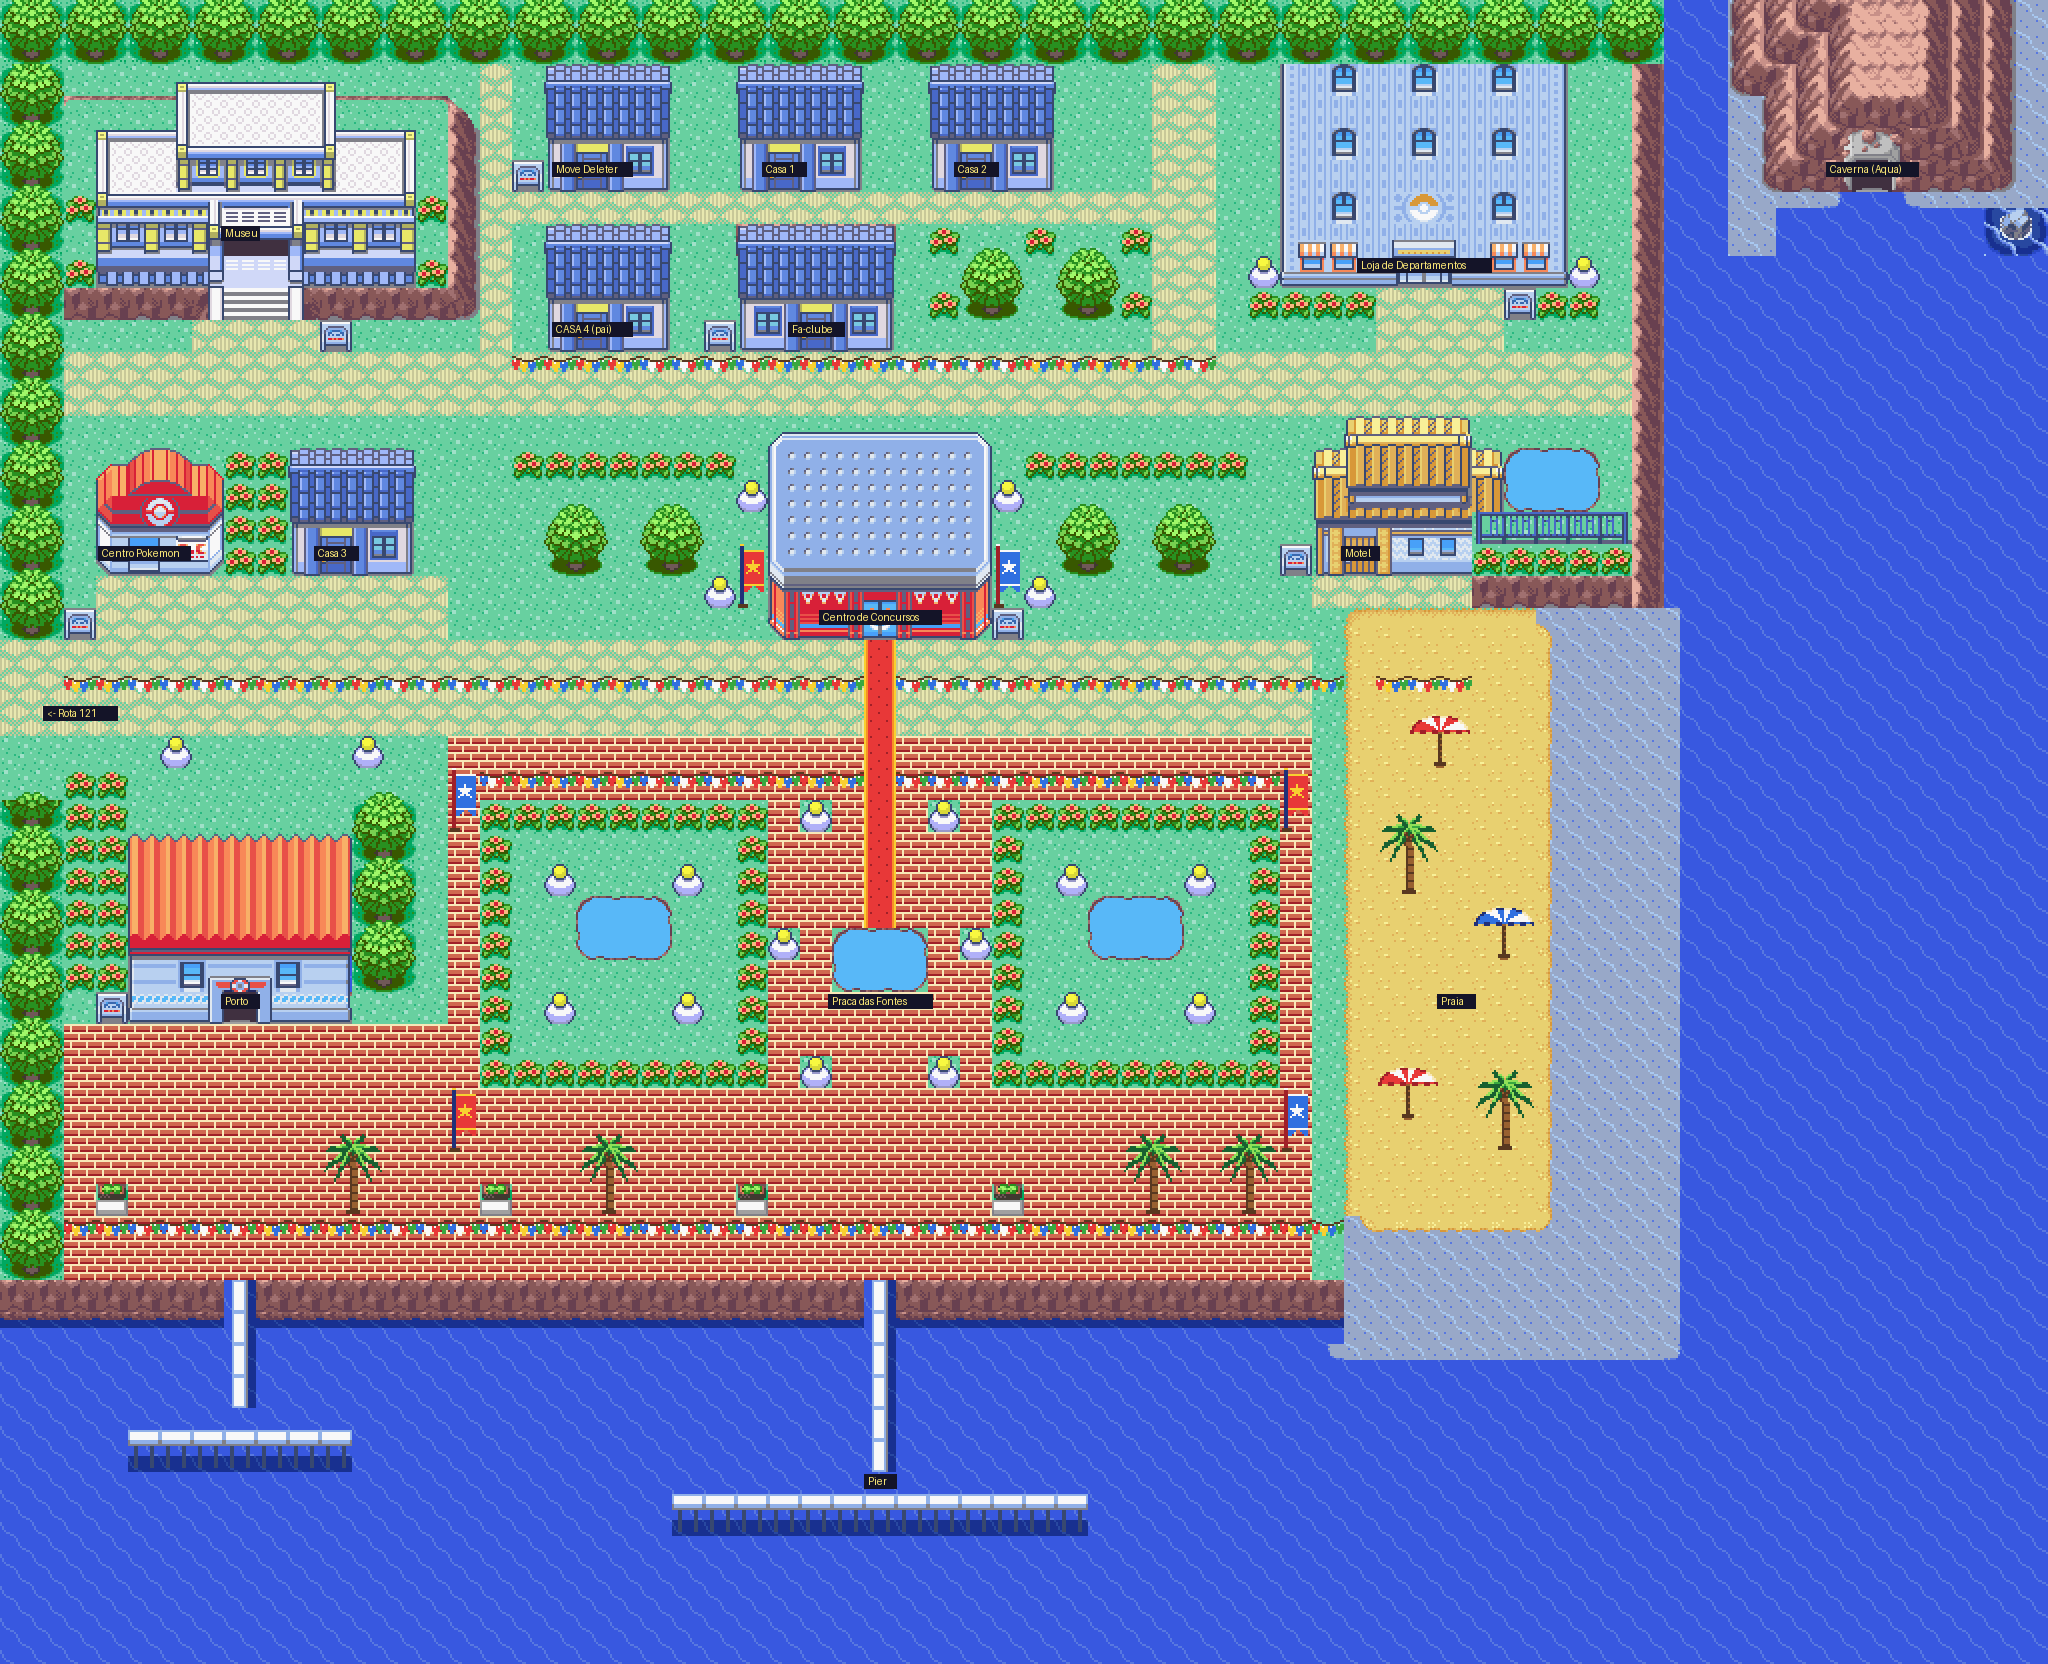
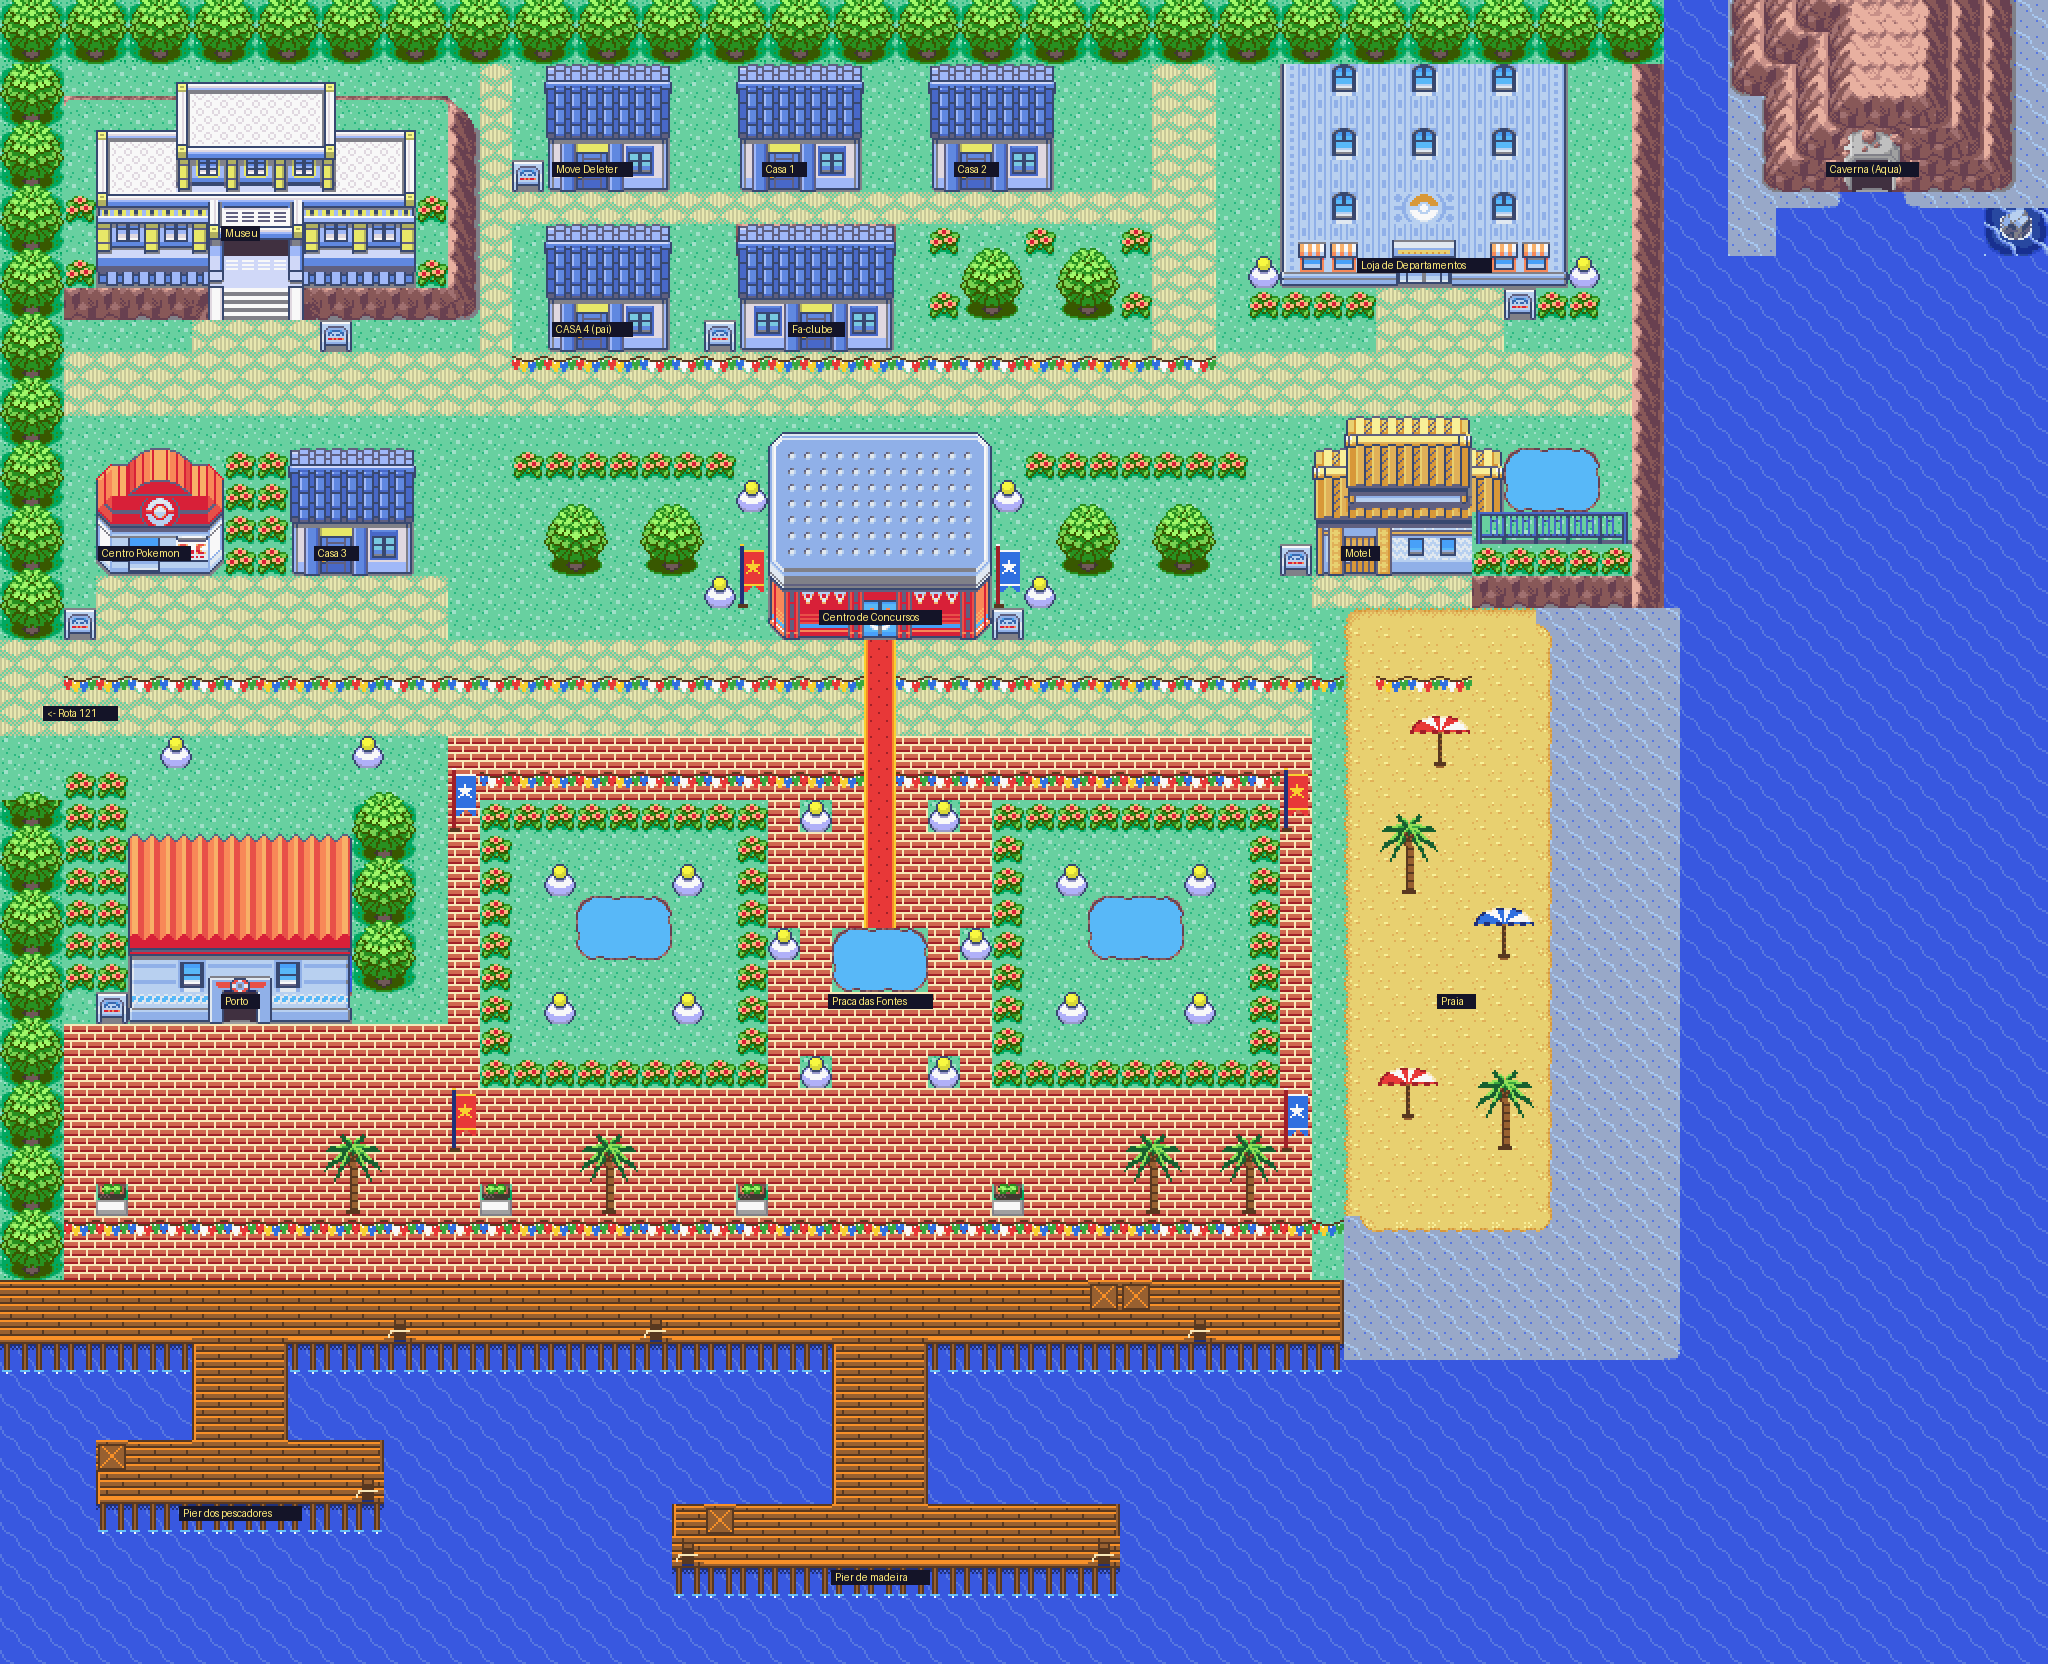
Replace bike-bridge piers with an original wooden boardwalk
New hand-drawn tiles (festival palette): planks with edge beams, pilings
over the water, crates and mooring posts. The sea wall is now a wooden
boardwalk along the whole waterfront, with a central landing pier and
a fishermen's pier.

Claude-Session: https://claude.ai/code/session_015nAeBdQj1XXGE9TrWVaT6H

Changed region(s): [[0.0, 0.75, 0.6562, 0.9688]]

diff --git a/dev_scripts/lilycove_redesign/festival_tiles.py b/dev_scripts/lilycove_redesign/festival_tiles.py
@@ -130,6 +130,59 @@ def banner():    # 16x32 top layer: season banner on a pole
     rect(c, 1, 30, 6, 32, DB)
     return c
 
+
+# ---------------------------------------------------------------- wooden boardwalk
+def dock(t=False, b=False, l=False, r=False):  # 16x16 opaque planks with optional edge beams
+    c = canvas(16, 16)
+    for y in range(16):
+        for x in range(16):
+            ry = y % 4
+            v = OR if ry == 0 else (DB if ry == 3 else BN)
+            joint = 5 if (y // 4) % 2 == 0 else 13
+            if x == joint and ry != 0: v = DB
+            c[y][x] = v
+    if t:
+        for x in range(16): c[0][x] = DB; c[1][x] = OR
+    if b:
+        for x in range(16): c[13][x] = OR; c[14][x] = BN; c[15][x] = DB
+    if l:
+        for y in range(16): c[y][0] = DB; c[y][1] = OR
+    if r:
+        for y in range(16): c[y][15] = DB; c[y][14] = BN
+    return c
+
+def dock_posts():  # top layer over water: shadow of the deck + two wooden pilings
+    c = canvas(16, 16)
+    for y in range(3):
+        for x in range(16):
+            if (x + y) % 2 == 0 or y == 0: c[y][x] = NV
+    for x0 in (2, 11):
+        for y in range(0, 13):
+            for x in range(x0, x0 + 3):
+                c[y][x] = BN
+            c[y][x0] = DB; c[y][x0 + 2] = DB
+        for x in range(x0 - 1, x0 + 4): c[13][x] = LB      # ripple
+        c[14][x0 + 1] = WH
+    return c
+
+def crate():
+    c = canvas(16, 16)
+    rect(c, 1, 2, 15, 15, BN)
+    for i in range(1, 15): c[2][i] = DB; c[14][i] = DB
+    for j in range(2, 15): c[j][1] = DB; c[j][14] = DB
+    for k in range(3, 14):
+        px(c, k, k + 1 - 1, OR); px(c, 15 - k, k, OR)
+    rect(c, 1, 15, 15, 16, DB)
+    return c
+
+def bollard():
+    c = canvas(16, 16)
+    rect(c, 5, 4, 11, 14, DB); rect(c, 6, 4, 10, 6, BN); rect(c, 4, 3, 12, 4, DB)
+    for x in range(3, 13): px(c, x, 9, CR)                 # rope
+    px(c, 3, 10, CR); px(c, 2, 11, CR); px(c, 2, 12, CR)
+    rect(c, 5, 14, 11, 15, NV)
+    return c
+
 # ---------------------------------------------------------------- tile bank
 def split(c):
     h, w = len(c), len(c[0])
@@ -196,6 +249,21 @@ def main():
                         q = [g[my * 2][mx * 2], g[my * 2][mx * 2 + 1], g[my * 2 + 1][mx * 2], g[my * 2 + 1][mx * 2 + 1]]
                         top = [entry(bank.add(t), pal) for t in q]
                         add_meta('%s%s_%s_%d_%d' % (name, sfx, unm, mx, my), un, top)
+    # wooden boardwalk / piers
+    def quad(art_):
+        g = split(art_)
+        return [entry(bank.add(g[0][0]), 6), entry(bank.add(g[0][1]), 6), entry(bank.add(g[1][0]), 6), entry(bank.add(g[1][1]), 6)]
+    for t in (0, 1):
+        for b in (0, 1):
+            for l in (0, 1):
+                for r in (0, 1):
+                    name = 'dock' + ('_' + ''.join(k for k, f in zip('tblr', (t, b, l, r)) if f) if (t or b or l or r) else '')
+                    add_meta(name, quad(dock(t, b, l, r)), [0] * 4)
+    WATER = [0x41c6, 0x41c7, 0x41c7, 0x41c6]
+    add_meta('dock_posts', WATER, quad(dock_posts()))
+    PLANK = quad(dock())
+    add_meta('dock_crate', PLANK, quad(crate()))
+    add_meta('dock_bollard', PLANK, quad(bollard()))
     obj('umbrella', umbrella(), [(SAND, 'sand')], [(6, ''), (12, '_blue')])
     obj('palm', palm(), [(SAND, 'sand'), (GRASS, 'grass'), (BRICK, 'brick')], [(6, '')])
     obj('banner', banner(), [(BRICK, 'brick'), (GRASS, 'grass'), (COB, 'cobble')], [(6, ''), (12, '_blue')])

diff --git a/dev_scripts/lilycove_redesign/layout.py b/dev_scripts/lilycove_redesign/layout.py
@@ -53,15 +53,9 @@ brickfill(2,32,14,36)
 tree1(2,23) if False else None
 trees(11,24,13,31)
 flowers(2,24,4,31)
-# ================= PROMENADE + SEAWALL =================
+# ================= PROMENADE + WOODEN BOARDWALK =================
 brickfill(2,36,42,40)
-for x in range(2,42): put(x,40,T(0x07c,1,0)); put(x,41,T(0x189,0,1))
-# piers
-def pier(px,py0,py1,dx0,dx1):
-    for y in range(py0,py1): put(px,y,T(0x0f4,0,3))
-    for x in range(dx0,dx1): put(x,py1,T(0x0f1,0,3)); put(x,py1+1,T(0x0f5,1,0))
-pier(27,40,46,21,34)
-pier(7,40,44,4,11)
+# (the boardwalk itself is drawn at the end, after the beach, see boardwalk())
 # ================= BEACH (right) =================
 SX0,SX1,SY0,SY1=42,49,19,39   # sand area
 fill(42,19,52,42,SHALLOW)
@@ -82,7 +76,6 @@ for x in range(42,52): put(x,42,T(0x1be,0,1))
 put(52,42,T(0x1bf,0,1)); put(41,42,T(0x1bd,0,1))
 # bottom-left corner tidy
 trees(0,24,2,40); 
-for x in range(0,2): put(x,40,T(0x07c,1,0)); put(x,41,T(0x189,0,1))
 # Aqua cave islet (keeps original warp target)
 stamp(66,0,76,8,54,0)
 for yy in range(4,8): put(54,yy,SHALLOW)
@@ -107,3 +100,35 @@ for px_ in (10,18,35,38): palm(px_,35,'brick')
 # beach: umbrellas + palms
 umbrella(44,22); umbrella(46,28,True); umbrella(43,33)
 palm(43,25); palm(46,33)
+
+# ================= WOODEN BOARDWALK, PIERS AND DOCK PROPS =================
+def D(name, walk=True): return T(F[name],0,3) if walk else T(F[name],1,0)
+def posts(x0,x1,y):
+    for x in range(x0,x1): put(x,y,T(F['dock_posts'],1,1))
+def platform(x0,x1,y0,y1,joins=()):
+    """rectangle of planks with beams on its outer edges; joins = x columns open to the north"""
+    for y in range(y0,y1):
+        for x in range(x0,x1):
+            t = y==y0 and x not in joins; b = y==y1-1; l = x==x0; r = x==x1-1
+            name='dock'+('_'+''.join(k for k,f in zip('tblr',(t,b,l,r)) if f) if (t or b or l or r) else '')
+            put(x,y,D(name))
+    posts(x0,x1,y1)
+def pier(x0,y0,y1):      # 3-wide vertical pier
+    for y in range(y0,y1):
+        put(x0,y,D('dock_l')); put(x0+1,y,D('dock')); put(x0+2,y,D('dock_r'))
+# boardwalk along the whole waterfront (2 rows) with pilings below
+for x in range(0,42):
+    put(x,40,D('dock_t')); put(x,41,D('dock_b'))
+put(41,40,D('dock_tr')); put(41,41,D('dock_br'))
+posts(0,42,42)
+# central pier + landing platform (the ship docks to its right)
+for x in (26,27,28): put(x,41,D('dock'))
+pier(26,42,47)
+platform(21,35,47,49,joins=(26,27,28))
+# harbor pier + platform for the fishing boats
+for x in (6,7,8): put(x,41,D('dock'))
+pier(6,42,45)
+platform(3,12,45,47,joins=(6,7,8))
+# props: crates and mooring posts
+for (x,y) in [(34,40),(35,40),(22,47),(3,45)]: put(x,y,D('dock_crate',False))
+for (x,y) in [(12,41),(20,41),(37,41),(21,48),(34,48),(11,46)]: put(x,y,D('dock_bollard',False))

diff --git a/docs/lilycove/README.md b/docs/lilycove/README.md
@@ -52,12 +52,13 @@ estavam vazias):
 | Elemento | Onde aparece |
 |---|---|
 | Piso de tijolo vermelho | Praça das Fontes, orla e frente do Porto |
+| Calçadão e píeres de madeira (pranchas, vigas, estacas na água, caixotes e postes de amarração) | Toda a orla sul, píer central e píer dos pescadores |
 | Tapete vermelho | Da porta do Centro de Concursos até a fonte central |
 | Bandeirolas (vermelho/azul) | Avenida, rua norte, borda da praça e orla |
 | Estandartes da temporada | Ao lado do Centro de Concursos e nos cantos da praça |
 | Guarda-sóis (vermelho/azul) e palmeiras | Praia; palmeiras também na orla |
 
-Uso: 475/512 tiles e 399/512 metatiles do tileset secundário.
+Uso: 499/512 tiles e 418/512 metatiles do tileset secundário.
 
 `vivid_palettes.py` aumenta a saturação (+22%) e o brilho (+4%) das paletas externas
 (General 0–5 e Lilycove 7–11). Os originais ficam em `base_tileset/`, e os dois
